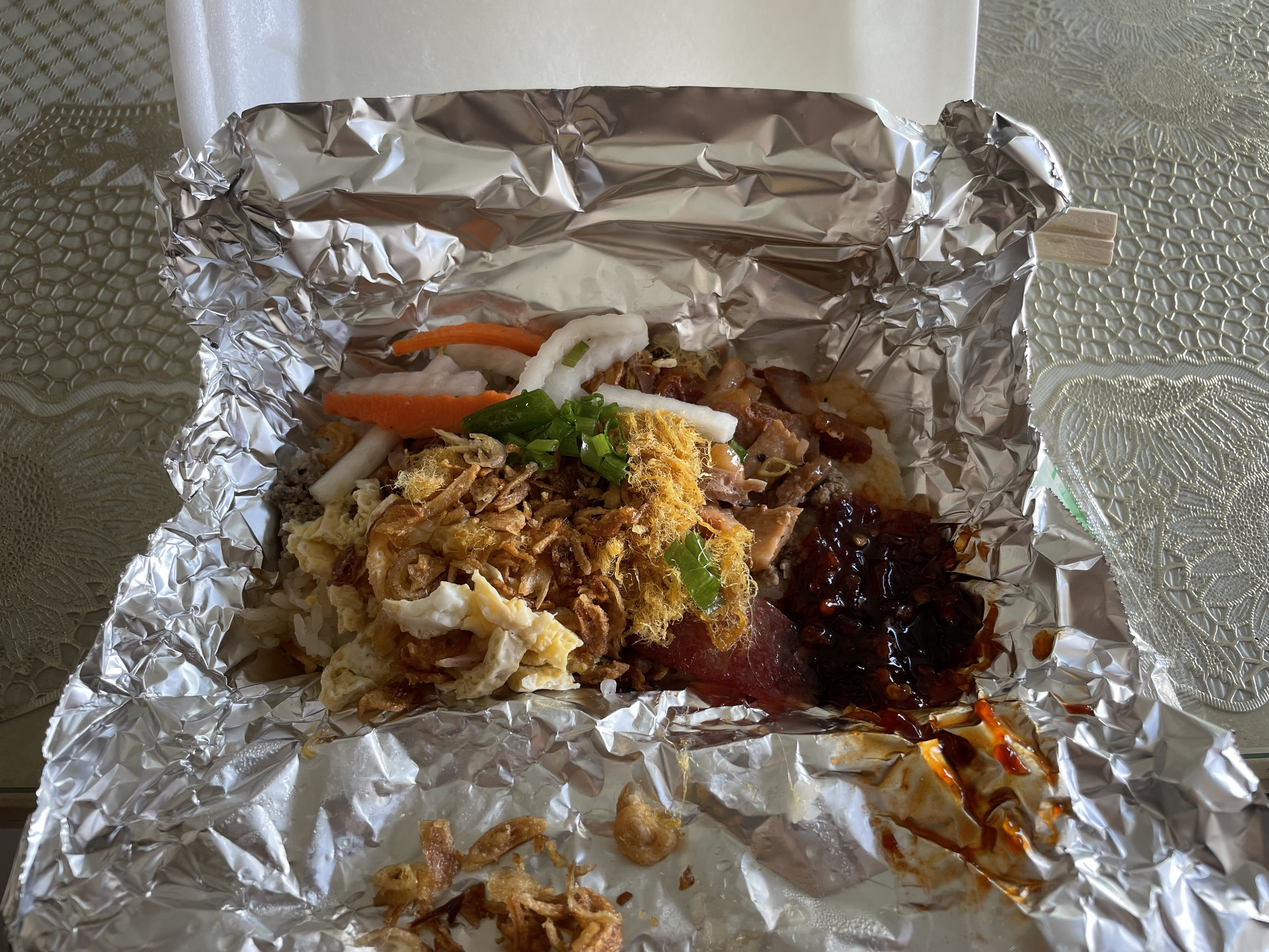
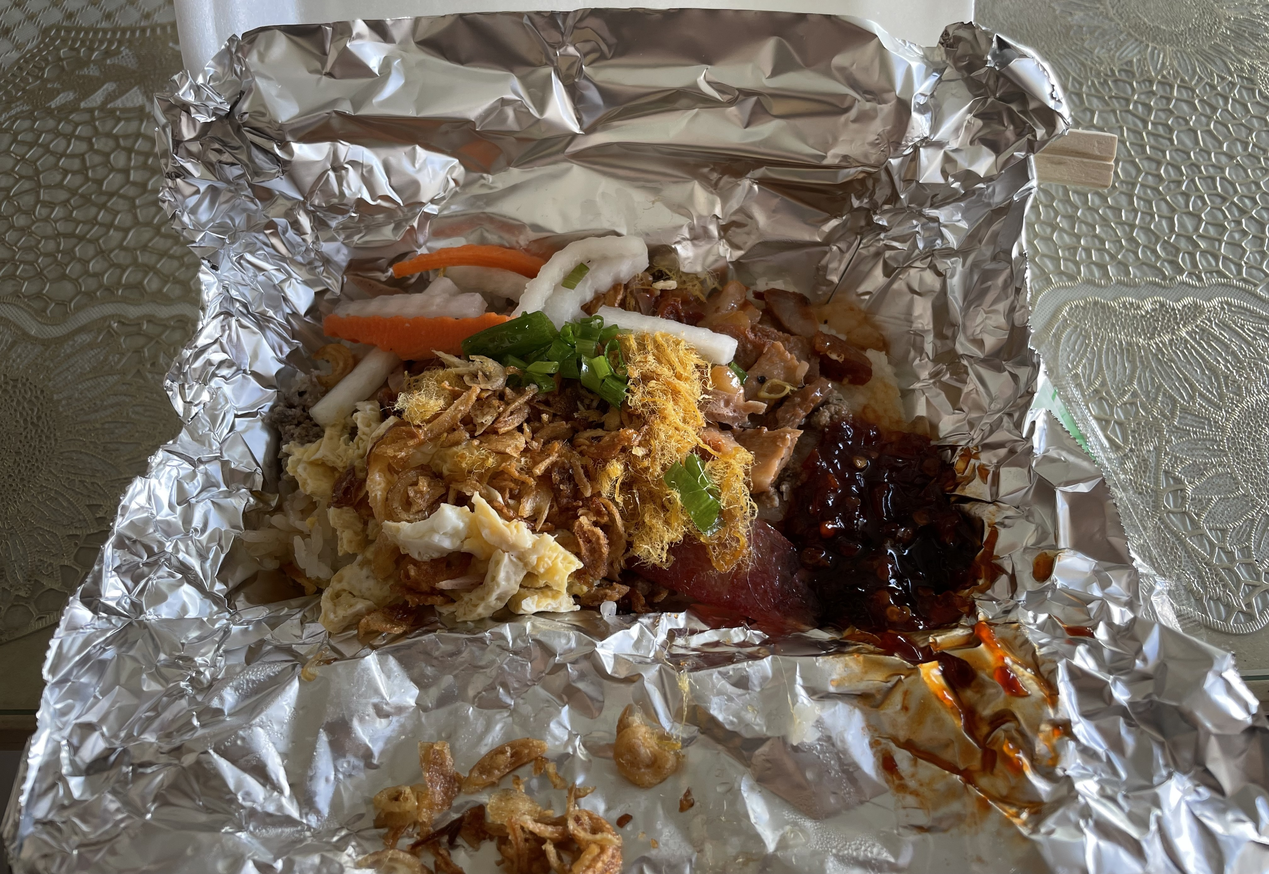
Fix broken images

diff --git a/_blogs/2023-12-09-isitdtu2023_blog.md b/_blogs/2023-12-09-isitdtu2023_blog.md
@@ -158,6 +158,8 @@ For our final day, we woke up a bit late since we were on our own schedule.
 Lambang left in the morning, so it's just the 4 of us left :(
 {: .notice--info}
 
+{% include figure image_path="/assets/images/blog/isitdtu2023/xoi.jpeg" alt="Xoi sticky rice" caption="Yummy breakfast!" %}
+
 We ordered Xôi (savoury sticky rice with a bunch of toppings) on Grab food, then walked to a nearby coffee shop to try their salty coffee.
 
 {% include image.html url="/assets/images/blog/isitdtu2023/salty_coffee.jpg" description="" %}
